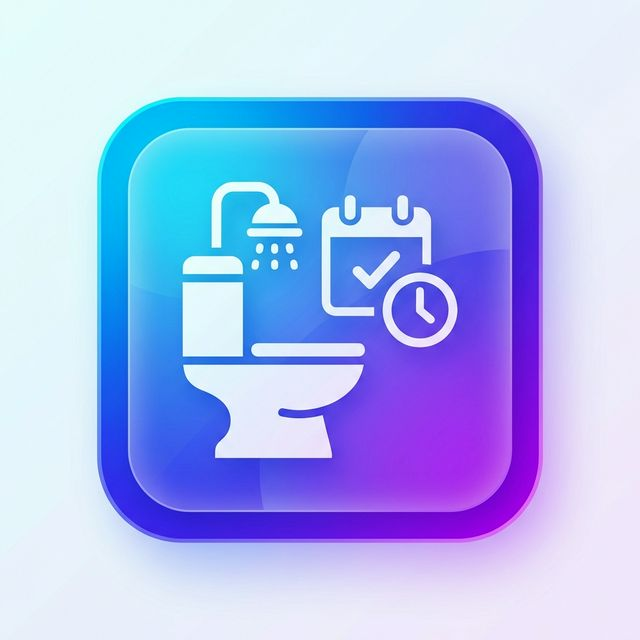
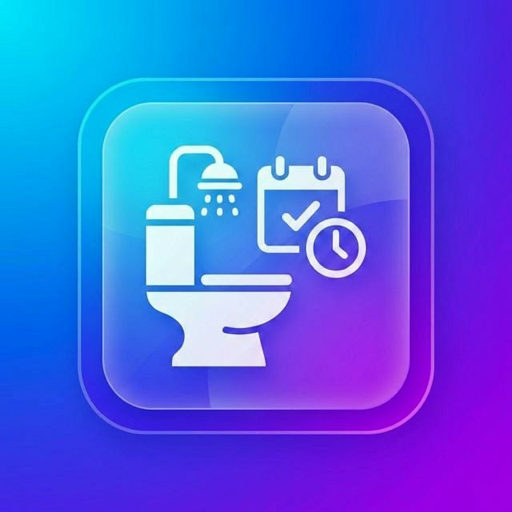
🔥 REMOVE: Completely removed mock mode for production launch

diff --git a/src/components/Auth.jsx b/src/components/Auth.jsx
@@ -4,11 +4,8 @@ import { User, Lock, Loader2 } from 'lucide-react'
 
 export function Auth() {
     const [loading, setLoading] = useState(false)
-    const [isLogin, setIsLogin] = useState(true)
     const [email, setEmail] = useState('')
     const [password, setPassword] = useState('')
-    const [username, setUsername] = useState('')
-    const [displayName, setDisplayName] = useState('')
     const [error, setError] = useState(null)
 
     const handleAuth = async (e) => {
@@ -17,26 +14,11 @@ export function Auth() {
         setError(null)
 
         try {
-            if (isLogin) {
-                const { error } = await supabase.auth.signInWithPassword({
-                    email,
-                    password,
-                })
-                if (error) throw error
-            } else {
-                const { error } = await supabase.auth.signUp({
-                    email,
-                    password,
-                    options: {
-                        data: {
-                            username,
-                            display_name: displayName,
-                        },
-                    },
-                })
-                if (error) throw error
-                setError('Verification email sent! Please check your inbox.')
-            }
+            const { error } = await supabase.auth.signInWithPassword({
+                email,
+                password,
+            })
+            if (error) throw error
         } catch (error) {
             setError(error.message)
         } finally {
@@ -68,32 +50,6 @@ export function Auth() {
                         </div>
                     </div>
 
-                    {!isLogin && (
-                        <>
-                            <div className="input-group">
-                                <label className="input-label">Username</label>
-                                <input
-                                    type="text"
-                                    className="input-field"
-                                    placeholder="johndoe"
-                                    value={username}
-                                    onChange={(e) => setUsername(e.target.value)}
-                                    required
-                                />
-                            </div>
-                            <div className="input-group">
-                                <label className="input-label">Display Name</label>
-                                <input
-                                    type="text"
-                                    className="input-field"
-                                    placeholder="John"
-                                    value={displayName}
-                                    onChange={(e) => setDisplayName(e.target.value)}
-                                />
-                            </div>
-                        </>
-                    )}
-
                     <div className="input-group">
                         <label className="input-label">Password</label>
                         <div className="input-wrapper">
@@ -112,15 +68,7 @@ export function Auth() {
                     {error && <div className="auth-error">{error}</div>}
 
                     <button className="btn btn-primary w-full" disabled={loading}>
-                        {loading ? <Loader2 className="animate-spin" /> : (isLogin ? 'Login' : 'Sign Up')}
-                    </button>
-
-                    <button
-                        type="button"
-                        className="btn btn-secondary w-full mt-4"
-                        onClick={() => setIsLogin(!isLogin)}
-                    >
-                        {isLogin ? 'Need an account? Sign Up' : 'Have an account? Login'}
+                        {loading ? <Loader2 className="animate-spin" /> : 'Login'}
                     </button>
                 </form>
             </div>

diff --git a/src/lib/supabase.js b/src/lib/supabase.js
@@ -3,37 +3,13 @@ import { createClient } from '@supabase/supabase-js'
 const supabaseUrl = import.meta.env.VITE_SUPABASE_URL
 const supabaseAnonKey = import.meta.env.VITE_SUPABASE_ANON_KEY
 
-const mockSupabase = {
-    auth: {
-        getSession: () => Promise.resolve({ data: { session: null }, error: null }),
-        onAuthStateChange: () => ({ data: { subscription: { unsubscribe: () => { } } } }),
-        signInWithPassword: () => Promise.resolve({ data: { user: { id: 'demo-id' } }, error: null }),
-        signUp: () => Promise.resolve({ data: {}, error: null }),
-        signOut: () => Promise.resolve({ error: null }),
-    },
-    from: () => ({
-        select: () => ({
-            eq: () => ({
-                single: () => Promise.resolve({ data: { username: 'demo', display_name: 'Demo User' }, error: null }),
-            }),
-            gte: () => ({
-                lte: () => ({
-                    order: () => Promise.resolve({ data: [], error: null }),
-                }),
-            }),
-        }),
-        insert: () => Promise.resolve({ error: null }),
-        delete: () => ({ eq: () => Promise.resolve({ error: null }) }),
-    }),
-    channel: () => ({ on: () => ({ subscribe: () => ({}) }) }),
-    removeChannel: () => { },
-}
-
 if (!supabaseUrl || !supabaseAnonKey) {
-    console.info('🚀 UI-First Mode: Using Mock Supabase. Set credentials in .env to connect to your real backend.')
+    throw new Error(
+        'Missing Supabase credentials. ' +
+        'Ensure VITE_SUPABASE_URL and VITE_SUPABASE_ANON_KEY are set in your .env file ' +
+        'or GitHub Repository Secrets.'
+    )
 }
 
-export const supabase = (supabaseUrl && supabaseAnonKey)
-    ? createClient(supabaseUrl, supabaseAnonKey)
-    : mockSupabase
+export const supabase = createClient(supabaseUrl, supabaseAnonKey)
 

diff --git a/index.html b/index.html
@@ -3,7 +3,7 @@
 
 <head>
   <meta charset="UTF-8" />
-  <link rel="icon" type="image/svg+xml" href="/vite.svg" />
+  <link rel="icon" type="image/png" href="/favicon.png" />
   <link rel="apple-touch-icon" href="/apple-touch-icon.png">
   <meta name="viewport"
     content="width=device-width, initial-scale=1.0, maximum-scale=1.0, user-scalable=no, viewport-fit=cover" />

diff --git a/vite.config.js b/vite.config.js
@@ -8,7 +8,7 @@ export default defineConfig({
     react(),
     VitePWA({
       registerType: 'autoUpdate',
-      includeAssets: ['favicon.ico', 'apple-touch-icon.png', 'mask-icon.svg'],
+      includeAssets: ['favicon.png', 'apple-touch-icon.png'],
       manifest: {
         name: 'Bathroom Booking',
         short_name: 'Bathroom',

diff --git a/TO_SIMO_DO.md b/TO_SIMO_DO.md
@@ -1,31 +1,2 @@
 # Manual Actions Required
-
-## 🛠 Supabase Setup
-1. Log in to your [Supabase Dashboard](https://supabase.com/dashboard).
-2. Create a new project (e.g., "Bathroom Booking").
-3. Go to the **SQL Editor** (left sidebar).
-4. Create a **New query**.
-5. Copy the code from `supabase_schema.sql` (located in your project root) and paste it into the editor.
-6. Click **Run**. This creates the `profiles` and `reservations` tables and sets up the security rules.
-
-## 🔑 Environment Variables
-1. In the Supabase Dashboard, go to **Project Settings** -> **API**.
-2. Copy the **Project URL**.
-3. Copy the **anon public** API key.
-4. Open the `.env` file in your editor (the one you currently have active).
-5. Paste them like this:
-   ```env
-   VITE_SUPABASE_URL=https://your-project-id.supabase.co
-   VITE_SUPABASE_ANON_KEY=your-anon-key
-   ```
-6. **Restart your development server** (`npm run dev`) for the changes to take effect.
-
-## 🚀 GitHub Pages Setup
-1. **GitHub Repository**:
-   - Go to your repository `luisfernarndo1/uk` on GitHub.
-   - Go to **Settings** -> **Pages**.
-   - Under **Build and deployment** -> **Source**, select **GitHub Actions**.
-2. **Push Changes**:
-   - Commit and push the changes I just made (including the `.github` folder).
-   - Go to the **Actions** tab in your repo to watch the deployment progress.
-3. **PWA Note**: GitHub Pages serves over HTTPS, which is required for the PWA features to work correctly.
+- **PWA Logo Update**: If you have already installed the PWA on your phone or desktop, you may need to uninstall and reinstall it, or clear the browser cache to see the new "full screen" logo.

diff --git a/DOCUMENTATION.md b/DOCUMENTATION.md
@@ -19,3 +19,17 @@
 - *Tech Notes*:
   - **Vite Config**: Set `base` to `/uk/` to support subdirectory hosting.
   - **CI/CD**: Added `.github/workflows/deploy.yml` for automated builds and deployments via GitHub Actions.
+## [2026-02-16 23:00]: Simplified Auth Flow
+- *Details*: Removed the Sign Up option to restrict access to existing users only.
+- *Files*: `src/components/Auth.jsx` modified.
+## [2026-02-16 23:04]: Removed Mock Mode
+- *Details*: Completely removed the Mock Supabase fallback. The app now requires real Supabase credentials to run.
+- *Files*: `src/lib/supabase.js` simplified.
+
+
+## [2026-02-16 23:05]: PWA Logo Enhancement
+- *Details*: Redesigned and updated PWA icons to fill the entire square frame, removing unused margins and improving aesthetic appeal.
+- *Tech Notes*:
+  - **Icons**: Generated high-resolution 512x512, 192x192, and 180x180 icons.
+  - **Favicon**: Added `favicon.png` and updated `index.html` to use it instead of the default Vite logo.
+  - **Glassmorphism**: Maintained the premium glassmorphic style for the central icon elements.
